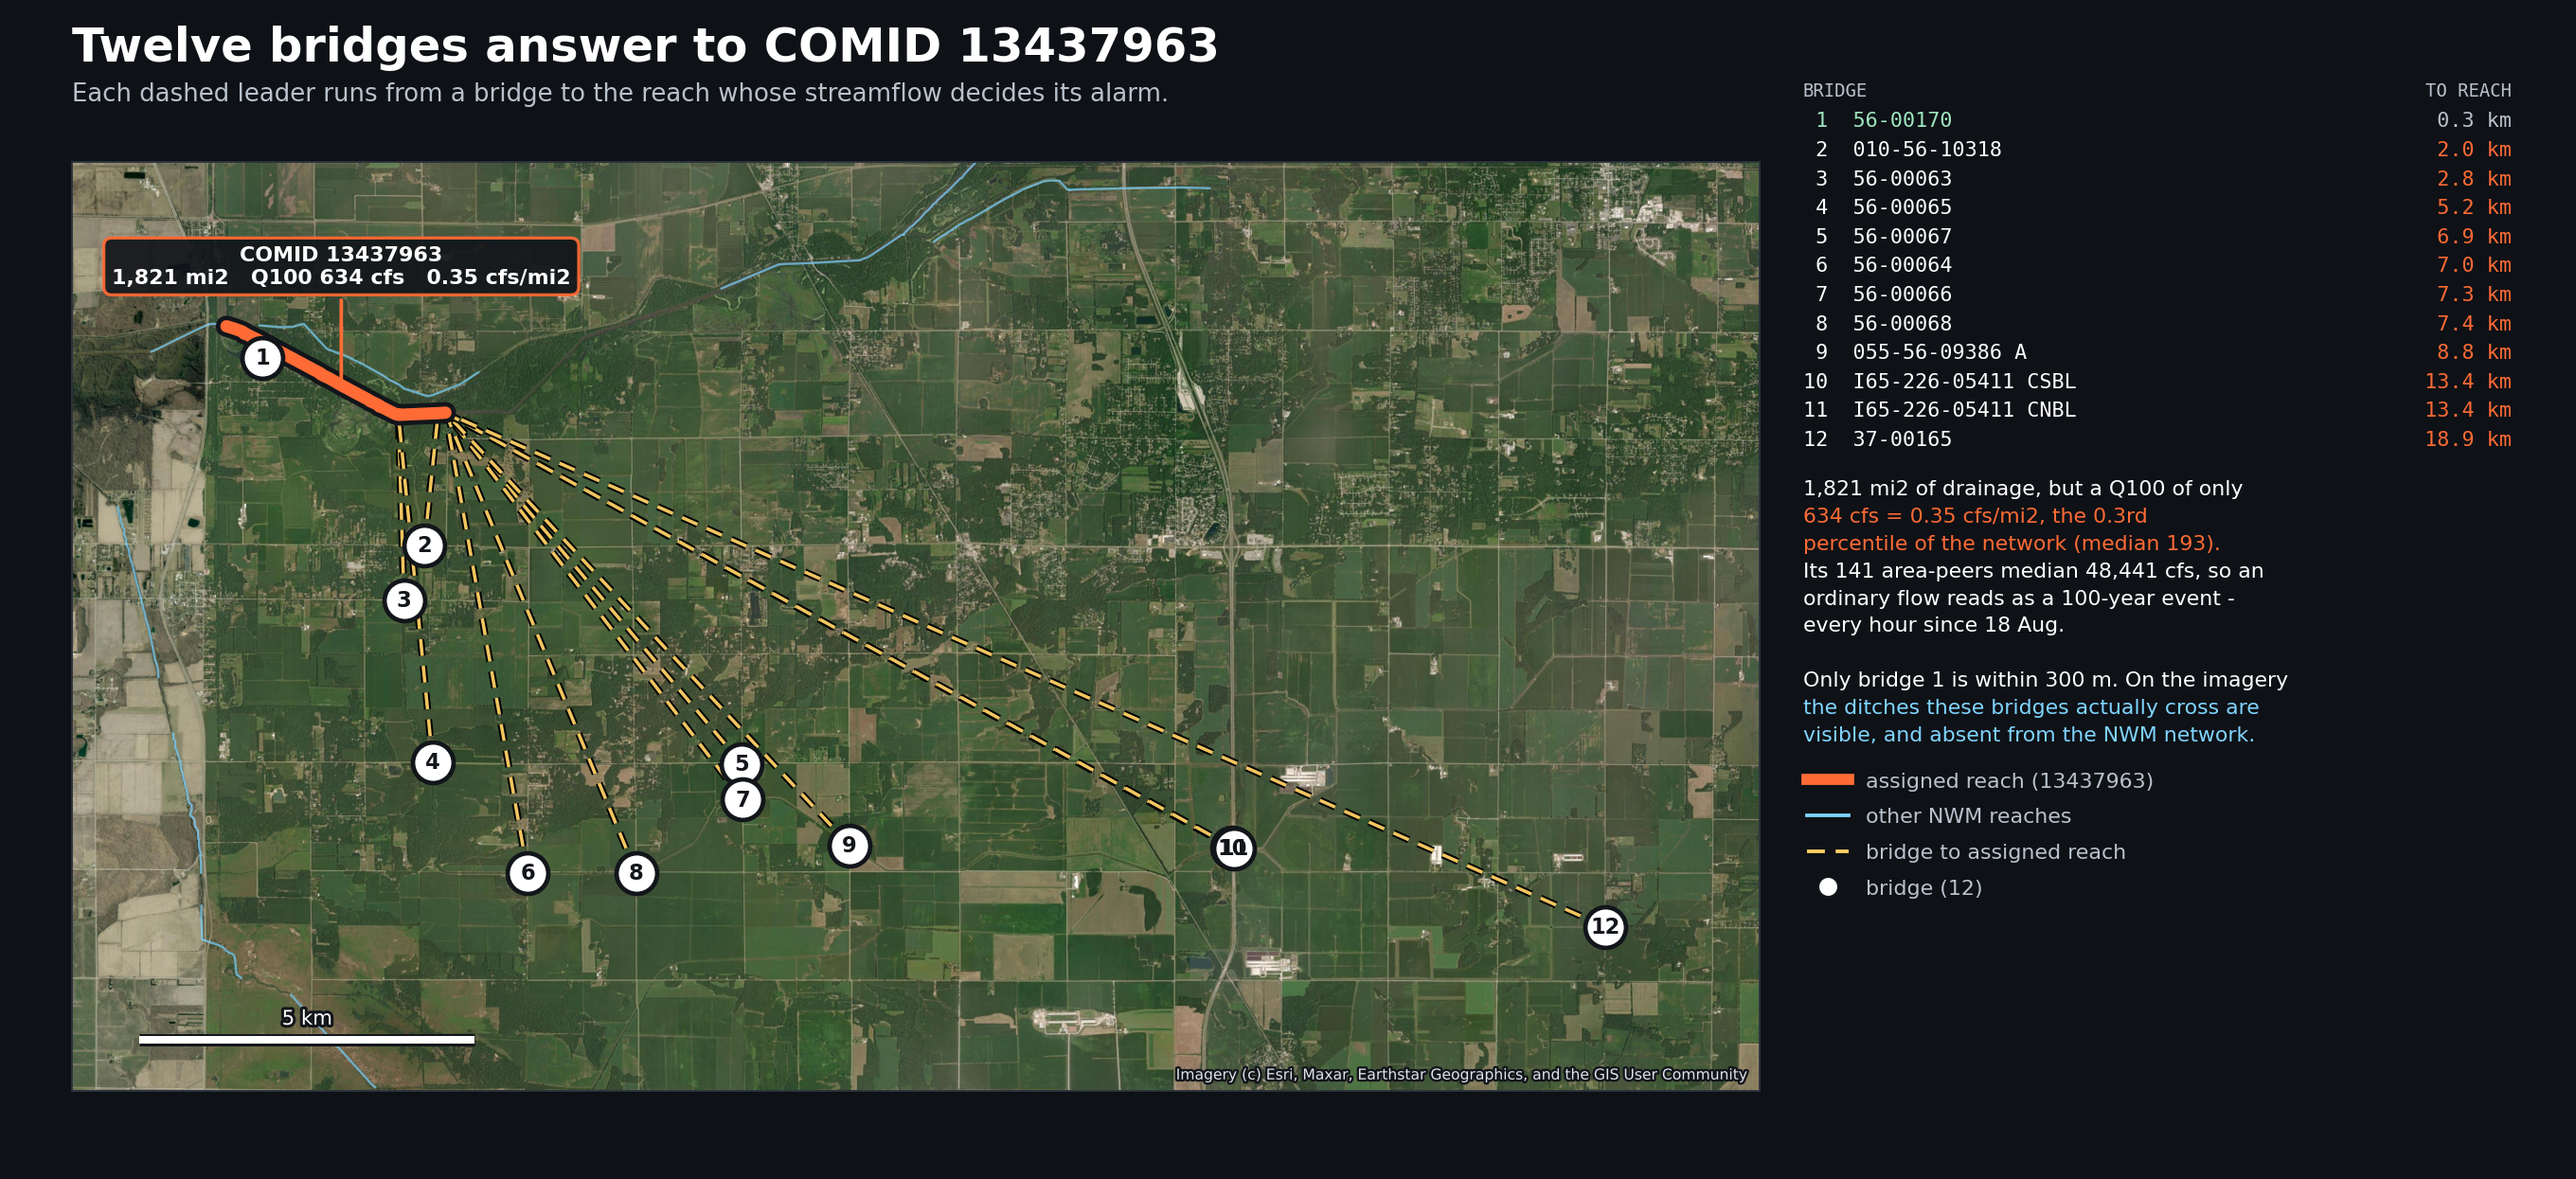
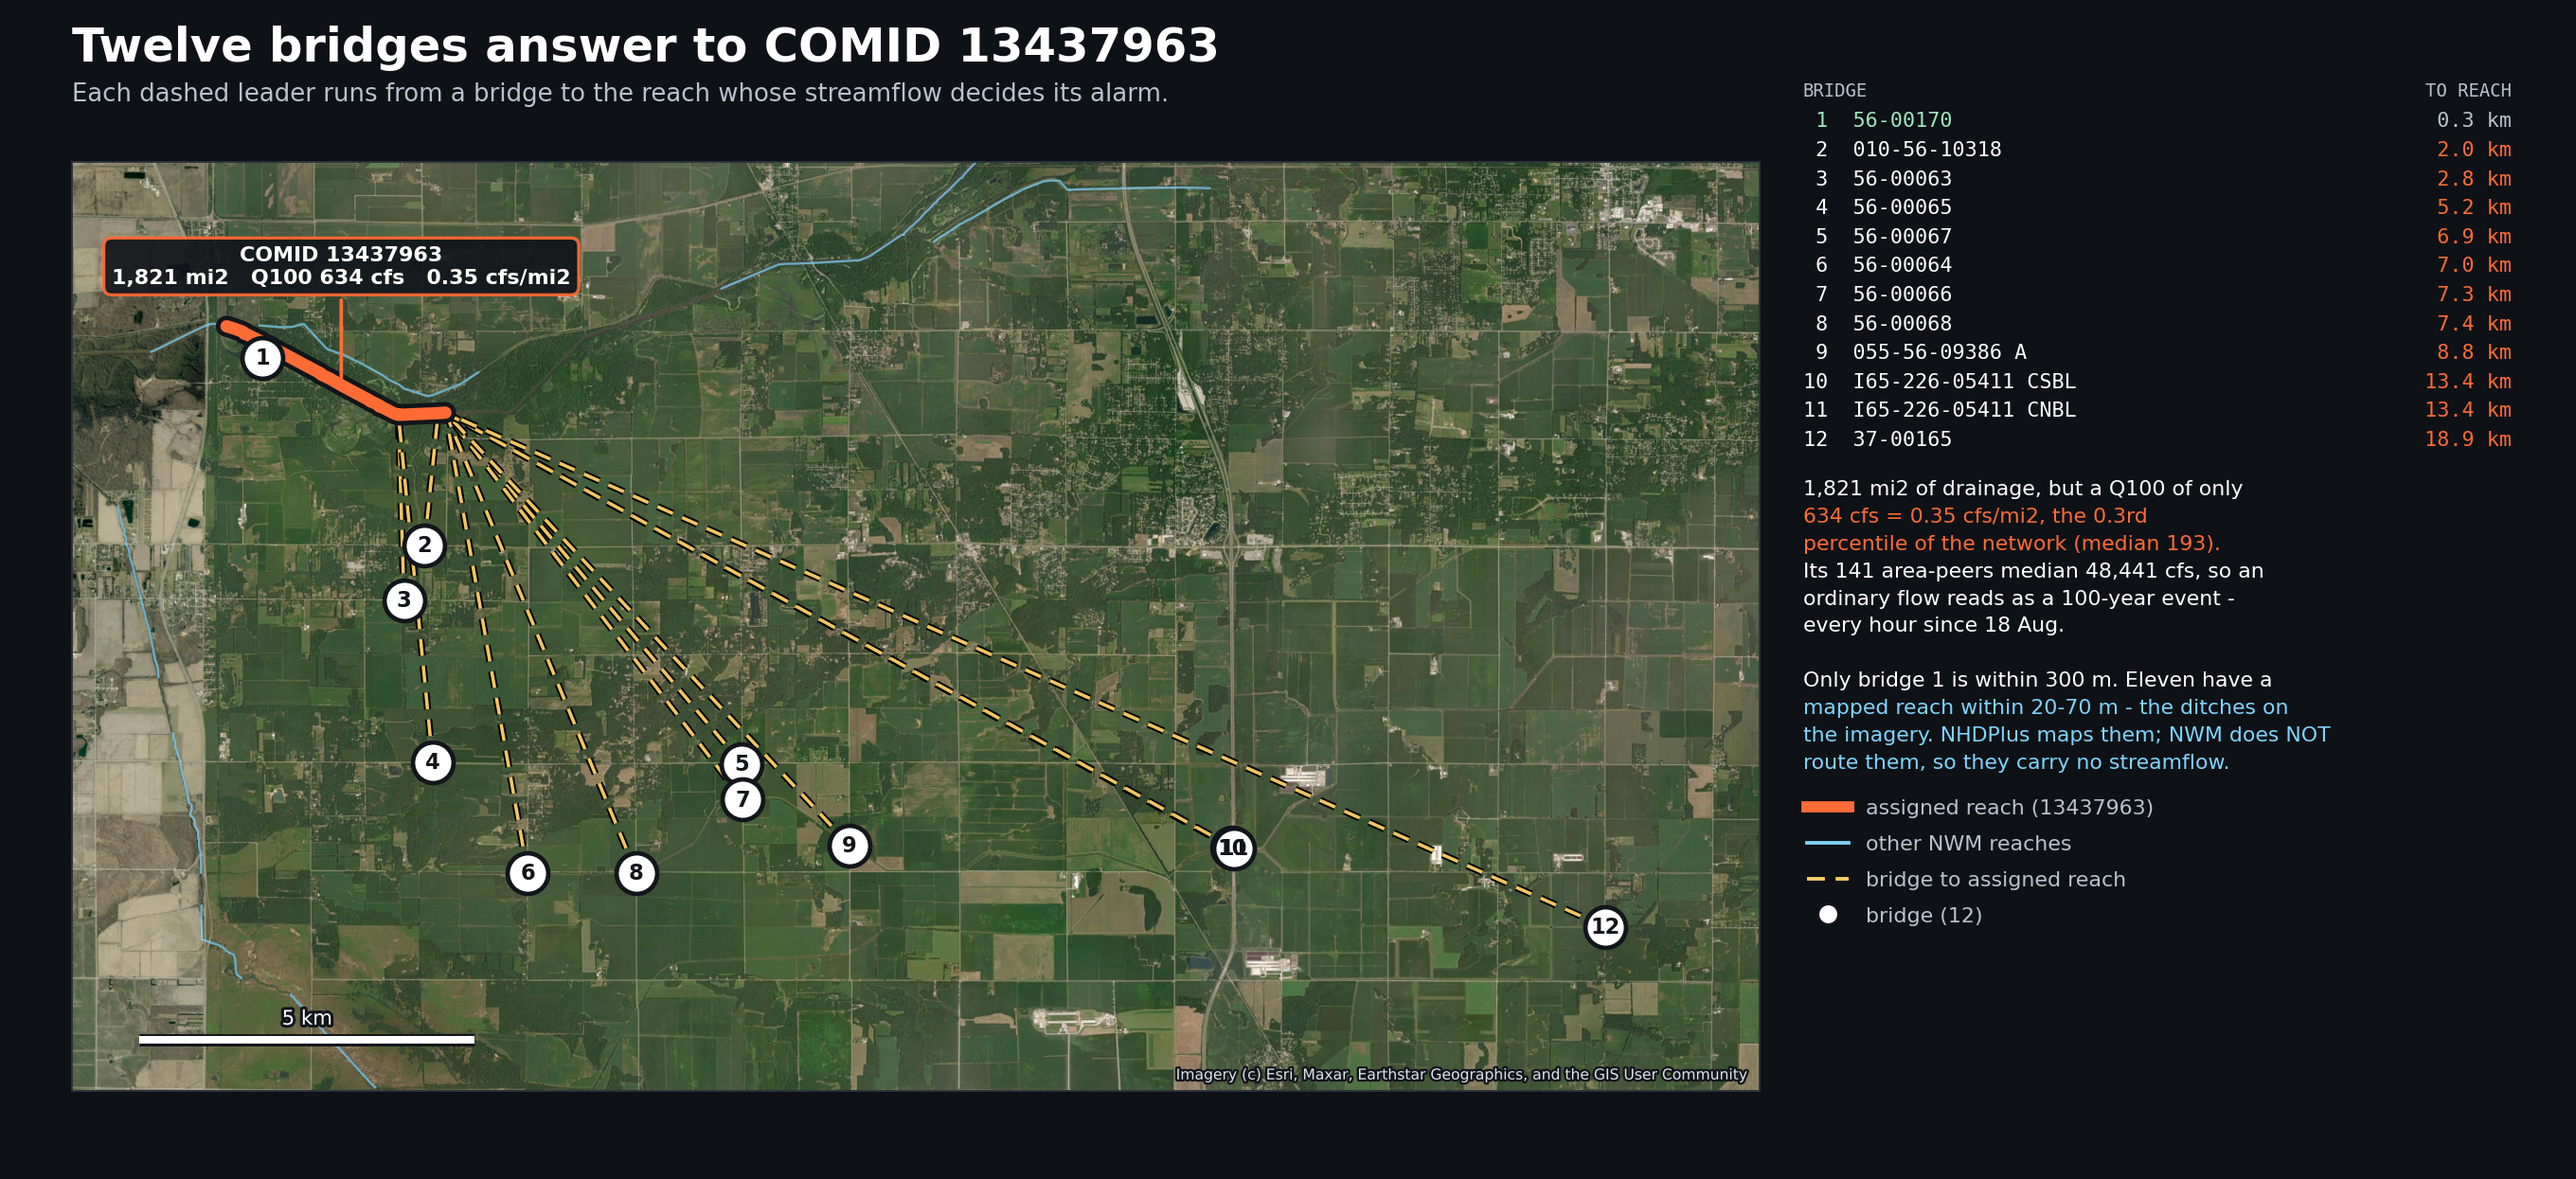
scripts: correct the COMID map's claim about ditches and the NWM network
The annotation said the ditches these bridges cross were "absent from the NWM
network". Checked against the full NHDPlus export, that is wrong as stated:
eleven of the twelve bridges have a MAPPED reach within 20-70 m (median 0.05 km,
against 7.13 km to the reach they were assigned). The ditches are in NHDPlus.
What is true is narrower — NWM does not ROUTE them (IN_NWM = 0), so they carry
no streamflow and snapping to them would buy nothing.

That distinction matters: it means the assignment is genuinely wrong rather than
merely unlucky, and it means ditches are not categorically excluded (2,230 of
Indiana's 3,740 CanalDitch reaches are NWM-routed, 781 already carry bridges).

Changed region(s): [[0.6875, 0.5494, 0.9062, 0.7936]]

diff --git a/scripts/map_comid_13437963.py b/scripts/map_comid_13437963.py
@@ -2,8 +2,8 @@
 """Map the 12 permanently-firing bridges on COMID 13437963, over satellite imagery.
 
 The defect is spatial and the imagery is the point: on the aerial you can see the
-ditched farmland these bridges actually cross, and see that the NWM flowline
-network does not represent it. Twelve bridges spread over ~25 km were all
+ditched farmland these bridges cross. NHDPlus maps those ditches; the NWM
+network does not ROUTE it. Twelve bridges spread over ~25 km were all
 assigned to one 3.6 km reach, and the flow trigger judges every one of them
 against that reach's streamflow.
 
@@ -249,9 +249,10 @@ def main() -> None:
         ("ordinary flow reads as a 100-year event -", PAPER),
         ("every hour since 18 Aug.", PAPER),
         ("", PAPER),
-        ("Only bridge 1 is within 300 m. On the imagery", PAPER),
-        ("the ditches these bridges actually cross are", C_NET),
-        ("visible, and absent from the NWM network.", C_NET),
+        ("Only bridge 1 is within 300 m. Eleven have a", PAPER),
+        ("mapped reach within 20-70 m - the ditches on", C_NET),
+        ("the imagery. NHDPlus maps them; NWM does NOT", C_NET),
+        ("route them, so they carry no streamflow.", C_NET),
     ]:
         fig.text(px, y, t, fontsize=9.3, color=c, va="top")
         y -= 0.0212 * rs
